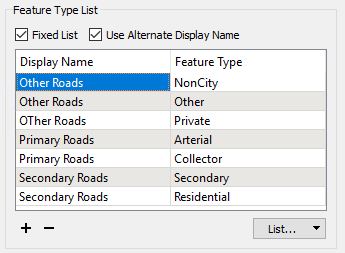
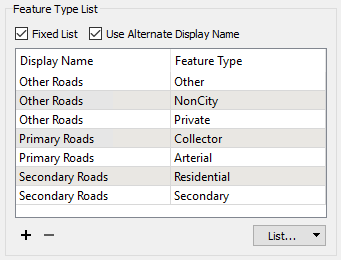
2017 Server Auth Ch2 Exercise 4
Minor grammar change for sentence flow; Replaced image in Step5

diff --git a/ServerAuthoring2SelfServe1/Exercise4.md b/ServerAuthoring2SelfServe1/Exercise4.md
@@ -95,7 +95,7 @@ You can check the parameters for this transformer but, for now at least, we'll l
 
 
 <br>**4) Create User Parameter**
-<br>Now we have some source data we can create a parameter to control which layers in that data should be read.
+<br>Now that we have some source data we can create a parameter to control which layers in that data should be read.
 
 In the Navigator window find the DGN Reader's parameters, expand the Features to Read section, and locate the parameter called Feature Types to Read. You will see that it is already published - a result of us using the Single Merged Feature Type:
 
